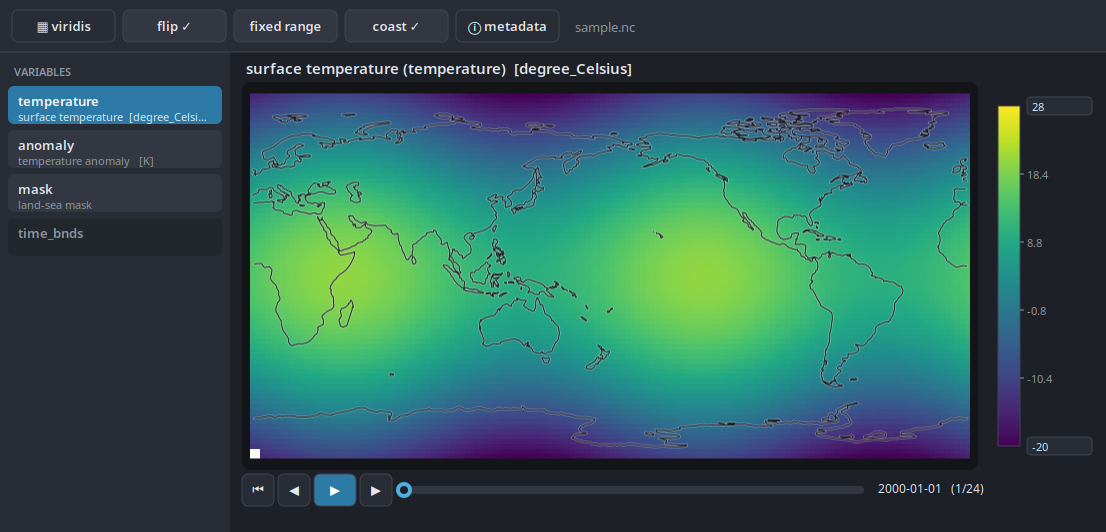
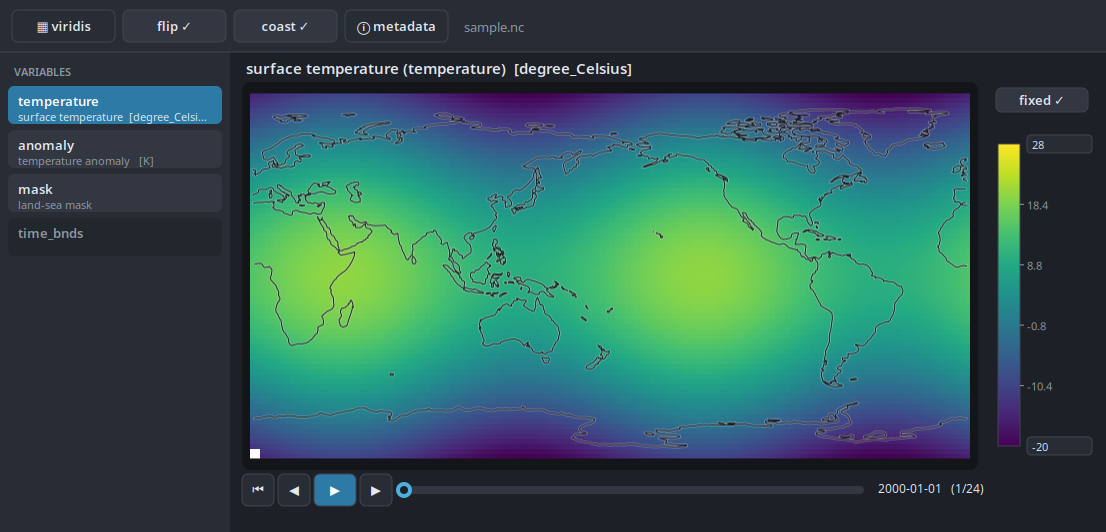
move 'fixed' button to color scale

diff --git a/src/app.cpp b/src/app.cpp
@@ -432,16 +432,16 @@ void App::layout() {
     };
     for (const auto &c : cmaps_) consider("▦ " + c.name);
     consider("flip ✓");
-    consider("fixed range");
     consider("coast ✓");
     consider("ⓘ metadata");
     bw += 24;                              // horizontal padding inside the button
 
+    // The fixed/auto range toggle lives above the colour scale (see
+    // draw_colorbar), not in the toolbar.
     const double gap = 8;
     double bx = pad, by = 10, bh = toolbar_h - 20;
     r_cmap_  = {bx, by, bw, bh}; bx += bw + gap;
     r_flip_  = {bx, by, bw, bh}; bx += bw + gap;
-    r_range_ = {bx, by, bw, bh}; bx += bw + gap;
     r_coast_ = {bx, by, bw, bh}; bx += bw + gap;
     r_info_  = {bx, by, bw, bh};
 
@@ -551,8 +551,6 @@ void App::draw_toolbar() {
 
     draw_button(cr_, r_cmap_, "▦ " + cmaps_[cmap_idx_].name, false, false);
     draw_button(cr_, r_flip_, flip_y_ ? "flip ✓" : "flip", flip_y_, false);
-    draw_button(cr_, r_range_, auto_range_ ? "auto range" : "fixed range",
-                !auto_range_, false);
     draw_button(cr_, r_coast_,
                 show_coast_ ? "coast ✓" : "coast",
                 show_coast_ && geographic_, false);
@@ -1066,8 +1064,16 @@ void App::draw_coast(double ox, double oy, double s, int nx, int ny,
 
 void App::draw_colorbar() {
     const Rect &R = r_colorbar_;
-    double barx = R.x + 8, bary = R.y + 24;
-    double barw = 22, barh = R.h - 48;
+
+    // Fixed/auto range toggle above the colour scale. A check mark and accent
+    // highlight indicate that the range is fixed (auto scaling off).
+    double btn_h = 24;
+    r_range_ = {R.x + 6, R.y + 6, R.w - 12, btn_h};
+    draw_button(cr_, r_range_, auto_range_ ? "fixed" : "fixed ✓", !auto_range_, false);
+
+    const double reserve = btn_h + 14;     // vertical space taken by the toggle
+    double barx = R.x + 8, bary = R.y + 24 + reserve;
+    double barw = 22, barh = R.h - 48 - reserve;
     const Palette &cm = cmaps_[cmap_idx_];
 
     for (int i = 0; i < (int)barh; ++i) {

diff --git a/README.md b/README.md
@@ -35,7 +35,8 @@ coastline overlay](docs/screenshot.png)
   quick global min/max scan of the variable (sub-sampled for large files) so the
   colour scale is stable across time steps. The min and max are editable: click
   a colorbar bound field and type a new value (Enter applies, Esc cancels). The
-  range button toggles between this fixed global range and per-slice auto.
+  **fixed** button above the colour scale toggles between this fixed global
+  range and per-slice auto.
 - Missing/fill values are rendered white.
 - The window opens at a default size whose plot canvas matches a global
   longitude/latitude grid (360 × 180, a 2:1 map); it is freely resizable.
@@ -77,7 +78,7 @@ coastline overlay](docs/screenshot.png)
 | Scroll variable list | wheel over the sidebar or drag its scrollbar |
 | Choose colormap   | the colormap button (dropdown); `c` cycles |
 | Flip Y (N↕S)      | `f` or the flip button                   |
-| Auto/fixed range  | `a` or the range button                  |
+| Auto/fixed range  | `a` or the **fixed** button (above the colour scale) |
 | Edit min / max    | click a colorbar bound field, type, Enter|
 | Coastlines overlay| `l` or the coast button (geographic data)|
 | Metadata window   | `m` / `i` or the ⓘ metadata button       |